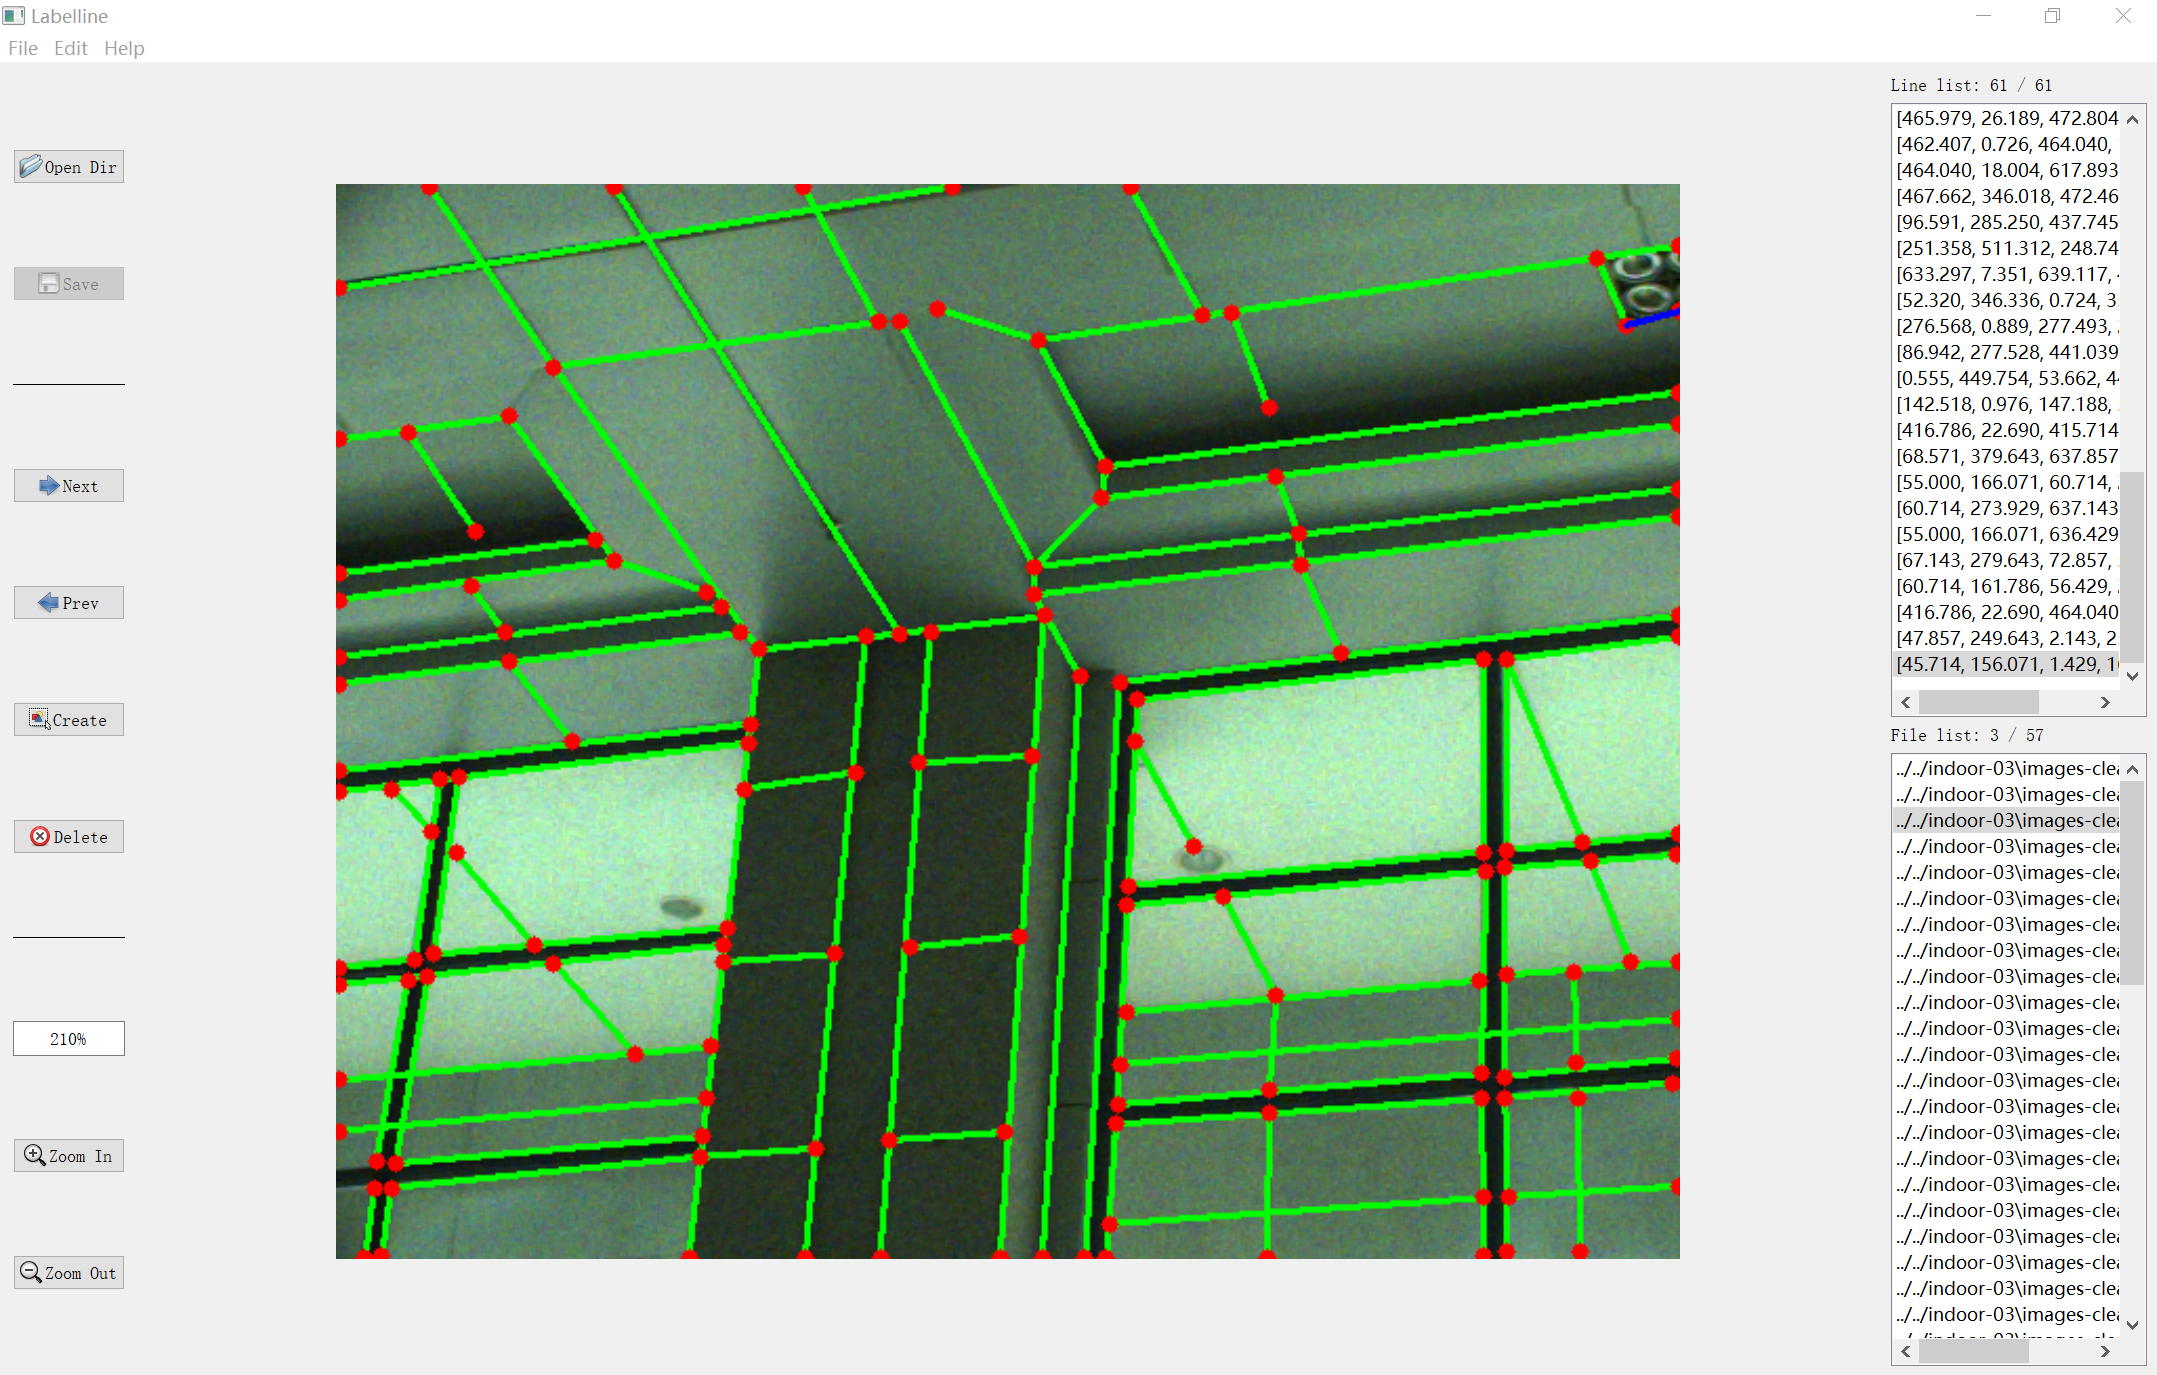
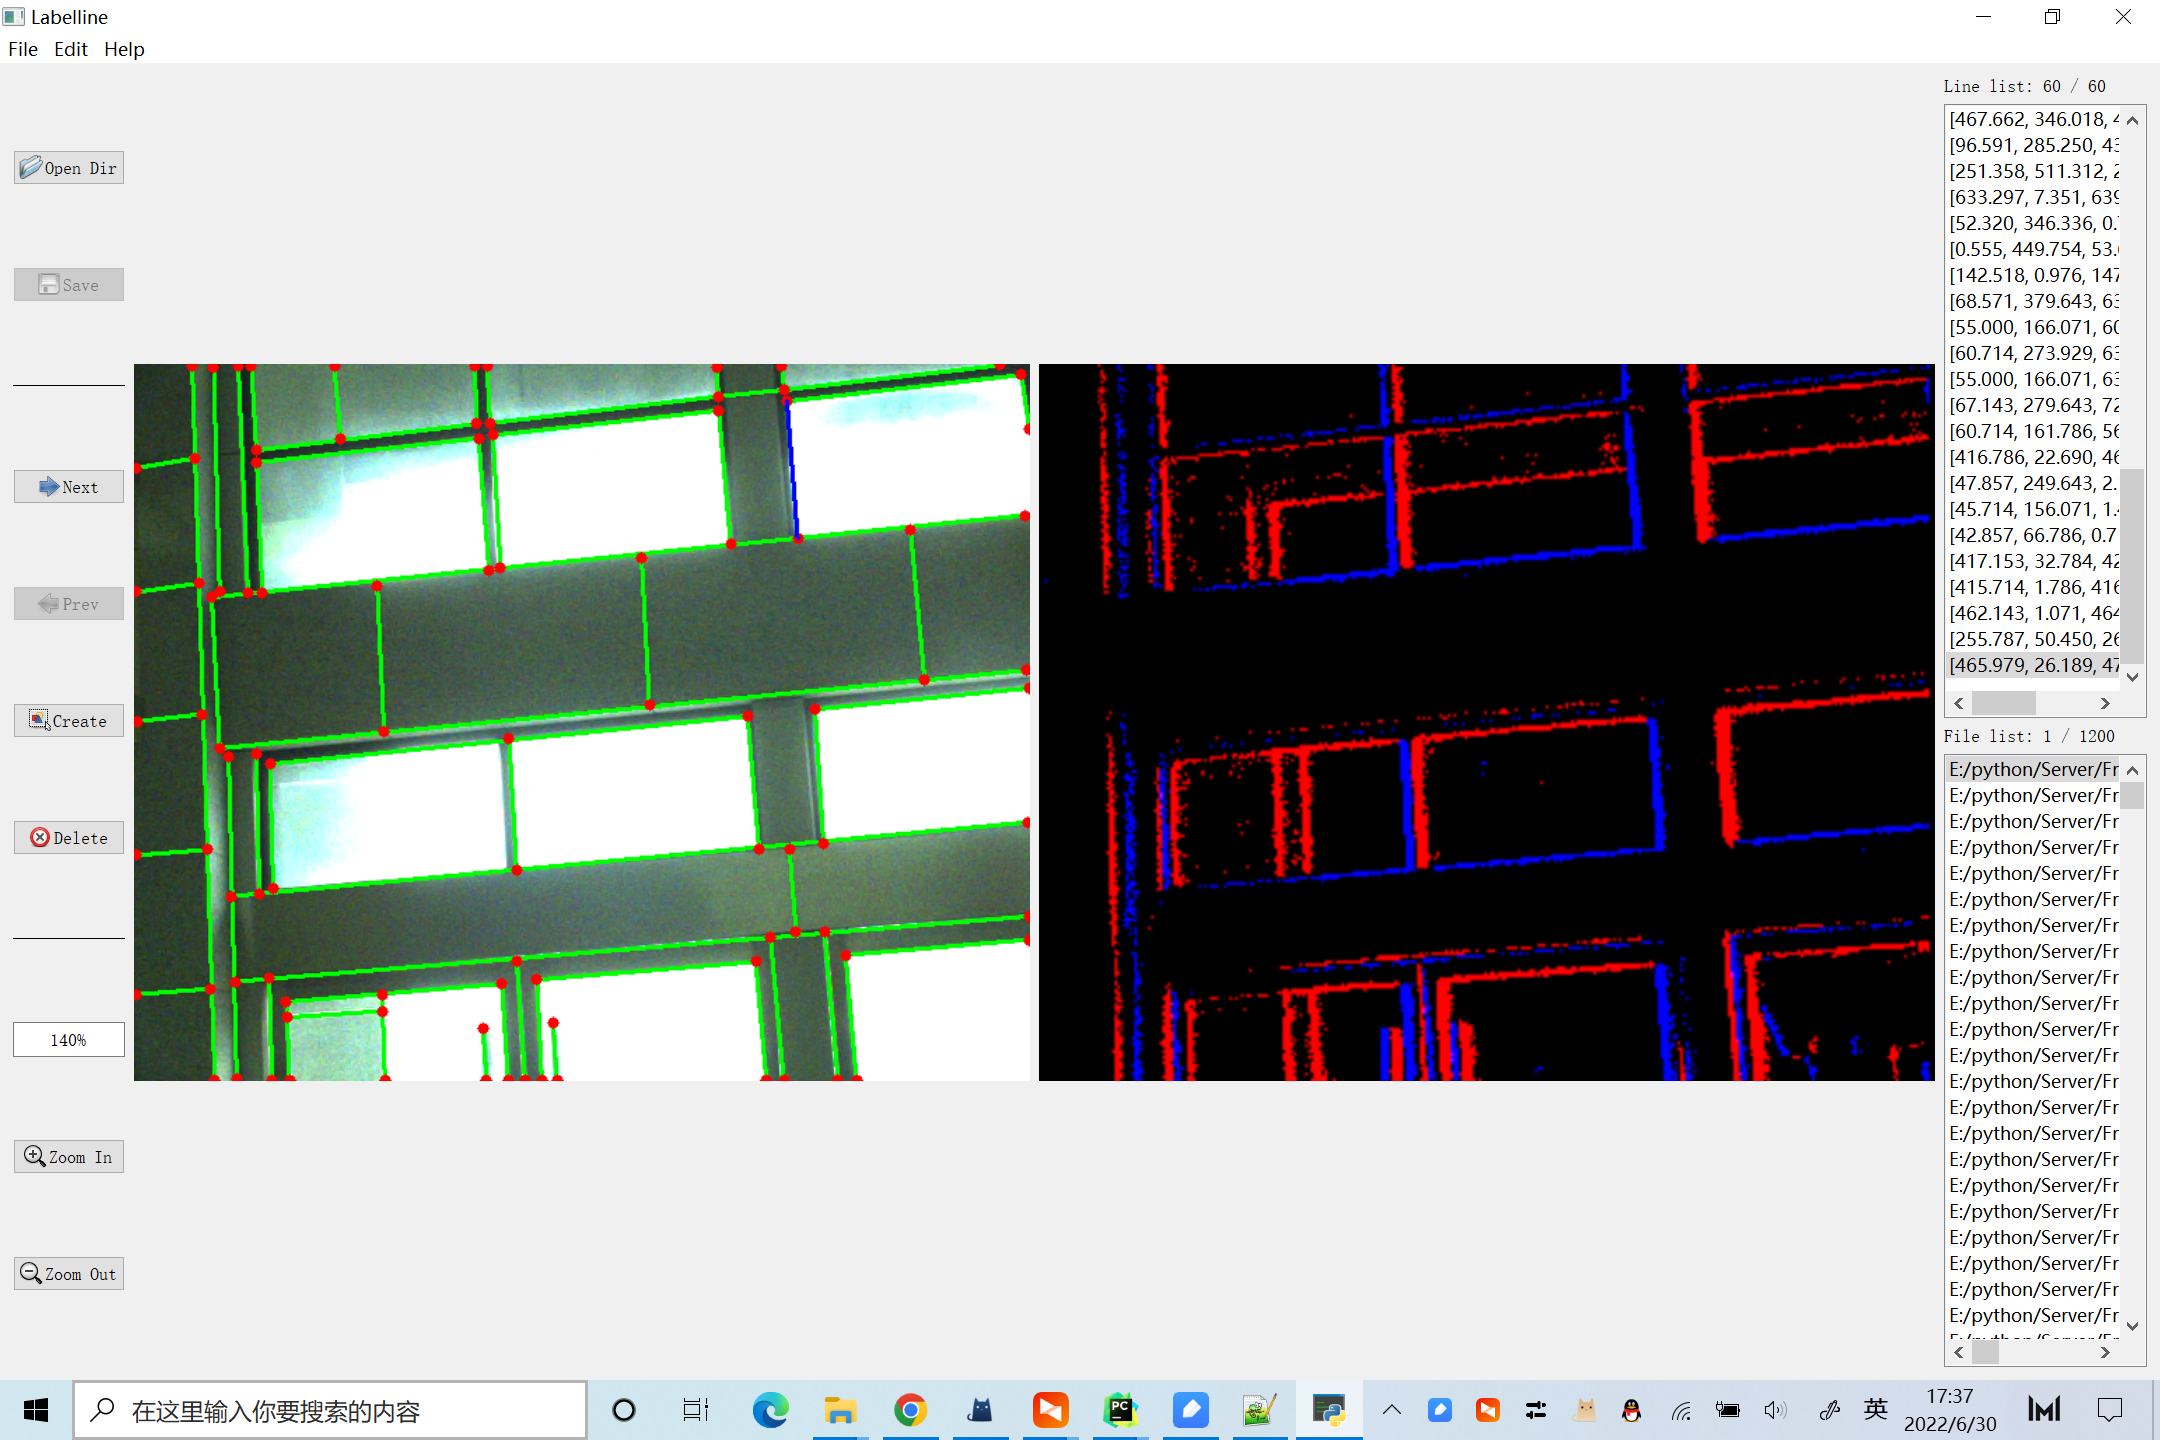
Add Usage.md

diff --git a/Labelline.py b/Labelline.py
@@ -25,6 +25,7 @@ class MainWindow(QMainWindow):
         self.file_index = 0
         self.num_file = 0
         self.image = None
+        self.auxiliary_image = None
         self.lines = np.zeros((0, 2, 2), np.float32)
         self.line_index = len(self.lines) - 1
         self.label_endpoint = None
@@ -32,6 +33,7 @@ class MainWindow(QMainWindow):
 
         self.save_flag = True
         self.transform_flag = False
+        self.move_flag = 0
         self.label_flag = False
 
         self.camera = cam.Pinhole()
@@ -65,6 +67,8 @@ class MainWindow(QMainWindow):
         self.menu_Delete = self.menu_Edit.addAction(QIcon('icon/delete.png'), 'Delete')
         self.menu_Edit.addSeparator()
         self.menu_Transform = self.menu_Edit.addAction(QIcon('icon/transform.png'), 'Transform')
+        self.menu_Edit.addSeparator()
+        self.menu_Exchange = self.menu_Edit.addAction(QIcon('icon/exchange.png'), 'Exchange')
         self.menu_Tutorial = self.menu_Help.addAction(QIcon('icon/tutorial.png'), 'Tutorial')
 
         self.button_OpenDir = QPushButton(text='Open Dir', icon=QIcon('icon/open.png'))
@@ -80,7 +84,8 @@ class MainWindow(QMainWindow):
         self.text_zoom.setFixedSize(self.button_OpenDir.sizeHint())
         self.buttonLayout = QVBoxLayout()
         self.label_Image = QLabel()
-        self.imageLayout = QVBoxLayout()
+        self.label_AuxiliaryImage = QLabel()
+        self.imageLayout = QHBoxLayout()
 
         self.text_Line = QLabel('Line list')
         self.text_File = QLabel('File list')
@@ -108,6 +113,7 @@ class MainWindow(QMainWindow):
         self.buttonLayout.addWidget(self.button_ZoomIn)
         self.buttonLayout.addWidget(self.button_ZoomOut)
         self.imageLayout.addWidget(self.label_Image, Qt.AlignCenter)
+        self.imageLayout.addWidget(self.label_AuxiliaryImage, Qt.AlignCenter)
         self.listLayout.addWidget(self.text_Line)
         self.listLayout.addWidget(self.list_Line)
         self.listLayout.addWidget(self.text_File)
@@ -140,6 +146,7 @@ class MainWindow(QMainWindow):
         self.menu_Create.triggered.connect(self.Create_Callback)
         self.menu_Delete.triggered.connect(self.Delete_Callback)
         self.menu_Transform.triggered.connect(self.Transform_Callback)
+        self.menu_Exchange.triggered.connect(self.Exchange_Callback)
         self.menu_Tutorial.triggered.connect(self.Tutorial_Callback)
 
         self.menu_OpenDir.setShortcut(cfg.menu_OpenDir_shortcut)
@@ -149,6 +156,7 @@ class MainWindow(QMainWindow):
         self.menu_Create.setShortcut(cfg.menu_Create_shortcut)
         self.menu_Delete.setShortcut(cfg.menu_Delete_shortcut)
         self.menu_Transform.setShortcut(cfg.menu_Transform_shortcut)
+        self.menu_Exchange.setShortcut(cfg.menu_Exchange_shortcut)
         self.menu_Tutorial.setShortcut(cfg.menu_Tutorial_shortcut)
 
         self.list_Line.clicked.connect(self.ListLine_Callback)
@@ -184,11 +192,84 @@ class MainWindow(QMainWindow):
         self.menu_Create.setEnabled(False)
         self.menu_Delete.setEnabled(False)
         self.menu_Transform.setEnabled(False)
+        self.menu_Exchange.setEnabled(False)
 
         self.label_Image.setEnabled(False)
 
-    def image_update(self):
+    def data_update(self):
+        self.label_flag = False
+        self.label_endpoint = None
+        self.capture_endpoint = None
+
+        image_file = self.file_list[self.file_index]
+        filename = os.path.basename(image_file)
+        filename = os.path.splitext(filename)[0] + '.mat'
+        line_file = os.path.join(self.data_path, self.label_folder, filename)
+
+        image = cv2.imread(image_file)
+        if image is None:
+            logging.error('Image must not be None')
+            exit()
+        width, height = image.shape[1] // 2, image.shape[0]
+        self.image = image[:, :width]
+        self.auxiliary_image = image[:, width:]
+
+        self.lines = np.zeros((0, 2, 2), np.float32)
+        if os.path.isfile(line_file):
+            lines = sio.loadmat(line_file)['lines']
+            if len(lines):
+                # 去除长度为0的线段
+                mask = np.linalg.norm(lines[:, 1] - lines[:, 0], axis=-1) > 0
+                lines = lines[mask]
+
+                # 合并相同的端点
+                juncs = np.unique(np.vstack((lines[:, 1], lines[:, 0])), axis=0)
+                jids = {}
+                for id, junc in enumerate(juncs):
+                    jids[tuple(junc)] = id
+                dists = np.linalg.norm(juncs[:, None] - juncs[None], axis=-1)
+                indices = np.argwhere(dists < self.point_select_thresh)
+                mask = indices[:, 0] < indices[:, 1]
+                indices = indices[mask]
+                if len(indices):
+                    print(os.path.basename(line_file))
+                    for i, j in indices:
+                        junc_i = juncs[i]
+                        junc_j = juncs[j]
+                        jids[tuple(junc_j)] = jids[tuple(junc_i)]
+                for i in range(len(lines)):
+                    id1 = jids[tuple(lines[i, 0])]
+                    id2 = jids[tuple(lines[i, 1])]
+                    lines[i, 0] = juncs[id1]
+                    lines[i, 1] = juncs[id2]
+
+                # 限制线段端点范围
+                lines[:, :, 0] = np.clip(lines[:, :, 0], 0, width - 1e-4)
+                lines[:, :, 1] = np.clip(lines[:, :, 1], 0, height - 1e-4)
+
+                self.lines = lines
+                self.Save_Callback()
+            else:
+                os.remove(line_file)
+        self.line_index = len(self.lines) - 1
+
+    def transform(self):
         image = self.image.copy()
+        auxiliary_image = self.auxiliary_image.copy()
+        if self.transform_flag:
+            for i in range(3):
+                image[:, :, i] = cv2.equalizeHist(image[:, :, i])
+
+        if self.move_flag == 0:
+            return image, auxiliary_image
+        elif self.move_flag == 1:
+            return auxiliary_image, image
+        else:
+            return image, image.copy()
+
+    def image_update(self):
+        image, auxiliary_image = self.transform()
+
         if len(self.lines) > 0:
             lines = self.lines
             self.camera.insert_line(image, lines, color=[0, 255, 0], thickness=self.line_width)
@@ -212,39 +293,16 @@ class MainWindow(QMainWindow):
 
         new_size = (int(round(image.shape[1] * self.scale)), int(round(image.shape[0] * self.scale)))
         image = cv2.resize(image, new_size, cv2.INTER_CUBIC)
-        image = QImage(image.data, image.shape[1], image.shape[0], image.shape[1] * 3, QImage.Format.Format_BGR888)
+        image = QImage(image.data, image.shape[1], image.shape[0], image.shape[1] * 3,
+                       QImage.Format.Format_BGR888)
         pixmap = QPixmap(image).scaled(new_size[0], new_size[1])
         self.label_Image.setPixmap(pixmap)
 
-    def transform(self):
-        # Todo: add your code
-        if self.transform_flag:
-            for i in range(3):
-                self.image[:, :, i] = cv2.equalizeHist(self.image[:, :, i])
-
-    def data_update(self):
-        self.label_flag = False
-        self.label_endpoint = None
-        self.capture_endpoint = None
-
-        image_file = self.file_list[self.file_index]
-        filename = os.path.basename(image_file)
-        filename = os.path.splitext(filename)[0] + '.mat'
-        line_file = os.path.join(self.data_path, self.label_folder, filename)
-
-        self.image = cv2.imread(image_file)
-        if self.image is None:
-            logging.error('Image must not be None')
-            exit()
-
-        self.lines = np.zeros((0, 2, 2), np.float32)
-        if os.path.isfile(line_file):
-            lines = sio.loadmat(line_file)['lines']
-            if len(lines):
-                self.lines = lines
-        self.line_index = len(self.lines) - 1
-
-        self.transform()
+        auxiliary_image = cv2.resize(auxiliary_image, new_size, cv2.INTER_CUBIC)
+        auxiliary_image = QImage(auxiliary_image.data, auxiliary_image.shape[1], auxiliary_image.shape[0],
+                                 auxiliary_image.shape[1] * 3, QImage.Format.Format_BGR888)
+        pixmap = QPixmap(auxiliary_image).scaled(new_size[0], new_size[1])
+        self.label_AuxiliaryImage.setPixmap(pixmap)
 
     def widget_update(self):
         # Update Widget
@@ -265,8 +323,8 @@ class MainWindow(QMainWindow):
         self.menu_Next.setEnabled(self.save_flag and self.file_index < self.num_file - 1)
         self.menu_Prev.setEnabled(self.save_flag and self.file_index > 0)
         self.menu_Create.setEnabled(True)
-        self.menu_Delete.setEnabled(self.line_index >= 0)
         self.menu_Transform.setEnabled(True)
+        self.menu_Exchange.setEnabled(True)
 
         self.label_Image.setEnabled(True)
 
@@ -280,6 +338,7 @@ class MainWindow(QMainWindow):
         self.list_Line.setEnabled(len(self.lines) > 0)
 
         self.button_Delete.setEnabled(len(self.lines) > 0)
+        self.menu_Delete.setEnabled(len(self.lines) > 0)
 
     def zoom_update(self):
         self.text_zoom.setText(f'{int(round(self.scale * 100))}%')
@@ -288,7 +347,6 @@ class MainWindow(QMainWindow):
         self.button_ZoomOut.setEnabled(self.scale > self.scale_limit[0])
 
     def OpenDir_Callback(self, data_path=None):
-        self.Save_Callback()
         if not data_path:
             data_path = QFileDialog.getExistingDirectory()
         image_path = os.path.join(data_path, self.image_folder)
@@ -322,14 +380,15 @@ class MainWindow(QMainWindow):
         self.image_update()
 
     def Save_Callback(self):
-        if self.save_flag:
-            return
         self.save_flag = True
         image_file = self.file_list[self.file_index]
         filename = os.path.basename(image_file)
         filename = os.path.splitext(filename)[0] + '.mat'
         line_file = os.path.join(self.data_path, self.label_folder, filename)
-        sio.savemat(line_file, {'lines': self.lines})
+        if len(self.lines):
+            sio.savemat(line_file, {'lines': self.lines})
+        elif os.path.isfile(line_file):
+            os.remove(line_file)
 
         self.widget_update()
 
@@ -337,18 +396,21 @@ class MainWindow(QMainWindow):
         self.file_index += 1
         self.data_update()
         self.widget_update()
+        self.line_update()
         self.image_update()
 
     def Prev_Callback(self):
         self.file_index -= 1
         self.data_update()
         self.widget_update()
+        self.line_update()
         self.image_update()
 
     def ListFile_Callback(self):
         self.file_index = self.list_File.currentRow()
         self.data_update()
         self.widget_update()
+        self.line_update()
         self.image_update()
 
     def ListLine_Callback(self):
@@ -374,10 +436,11 @@ class MainWindow(QMainWindow):
         self.image_update()
 
     def Transform_Callback(self):
-        self.Save_Callback()
-
         self.transform_flag = not self.transform_flag
-        self.data_update()
+        self.image_update()
+
+    def Exchange_Callback(self):
+        self.move_flag = (self.move_flag + 1) % 3
         self.image_update()
 
     def ZoomIn_Callback(self):
@@ -446,8 +509,12 @@ class MainWindow(QMainWindow):
                         self.capture_endpoint = None
 
                     line = np.stack((self.label_endpoint, pt))
-                    self.lines = np.concatenate((self.lines, line[None]))
-                    self.line_index = len(self.lines) - 1
+                    length = np.linalg.norm(line[1] - line[0], axis=-1)
+                    if length > 0:
+                        self.lines = np.concatenate((self.lines, line[None]))
+                        self.lines[:, :, 0] = np.clip(self.lines[:, :, 0], 0, width - 1e-4)
+                        self.lines[:, :, 1] = np.clip(self.lines[:, :, 1], 0, height - 1e-4)
+                        self.line_index = len(self.lines) - 1
 
                     # Update UI
                     self.save_flag = False
@@ -502,9 +569,9 @@ class MainWindow(QMainWindow):
     def Tutorial_Callback(self):
         QMessageBox.information(self,
                         'Tutorial',
-                        'Version: 2.0\n'
+                        'Version: 1.0\n'
                         'Author: lh9171338\n'
-                        'Date: 2022-02-20\n'
+                        'Date: 2022-06-30\n'
                         'Shortcut (default):\n'
                         '\tCtrl + O: Select an image folder\n'
                         '\tCtrl + S: Save the annotations\n'
@@ -512,7 +579,8 @@ class MainWindow(QMainWindow):
                         '\tCtrl + B: Go to the previous image\n'
                         '\tCtrl + C: Create a new annotation\n'
                         '\tCtrl + D: Delete the selected annotation\n'
-                        '\tCtrl + W: Transform (The default operation is histogram equalization)\n'
+                        '\tCtrl + W: Transform\n'
+                        '\tCtrl + Q: Exchange\n'
                         '\tCtrl + U: View the tutorial\n'
                         'Mouse buttons (clicked in the image area): \n'
                         '\tLeft button: Create an endpoint of a new annotation\n'

diff --git a/Usage.md b/Usage.md
@@ -2,9 +2,9 @@
 
 ### 软件信息
 
-* 版本：2.0
+* 版本：1.0
 * 作者：lh9171338
-* 日期：2022-02-20
+* 日期：2022-06-30
 
 ### 快捷键（默认）
 
@@ -14,7 +14,8 @@
 * Ctrl + B：返回上一张图像
 * Ctrl + C：进入线段标注状态
 * Ctrl + D：删除选中的线段标注
-* Ctrl + W：图像变换（默认操作为直方图均衡化）
+* Ctrl + W：图像变换，对普光图像进行直方图均衡化操作，提升图像对比度
+* Ctrl + Q：互换普光图像和事件帧位置
 * Ctrl + U：查看用户手册
 
 **注**：编辑`default.yaml`文件可以修改快捷键
@@ -45,10 +46,23 @@
 
 **注**：`<image folder>`和`<label folder>`路径在`default.yaml`文件中配置，二者可以相同
 
+标注图像由图像图像和事件帧沿水平方向拼接而成，示例如下：
+<p align="center">
+    <img src="000001.png"/>
+</p> 
+
 ### 程序运行
 
 ```shell
 python Labelline.py
 ```
-**注**：用户可以根据需求修改图像变换的功能
 
+### 标注准则
+
+1. 保持线段具有公共端点的性质：在线段标注状态下，当鼠标移动到离某条已标注线段端点很近时，界面有==捕获==状态显示，此时点击鼠标左键进行标点，可以确保当前标注的端点等于该已存在的端点
+2. 保持线段水平/竖直的性质：当标注的线段非常接近水平/竖直时，程序会自动将其将其转为水平/竖直
+3. 尽量标注长线，如果它们在3D空间并不是一条线，则分段标注
+4. 太短的线可以不标
+5. 非常接近的平行线只标注一条
+6. 2条线端点不重合，但非常接近，不好标注时，可以舍弃其中一条线
+7. 唯一宗旨是确保标注正确、整洁

diff --git a/README.md b/README.md
@@ -1,6 +1,6 @@
 [<img height="23" src="https://github.com/lh9171338/Outline/blob/master/icon.jpg"/>](https://github.com/lh9171338/Outline) Labelline
 ===
-This repository contains a line segment annotation tool, which is implemented with PyQt5.
+This repository contains a line segment annotation tool for registered frame and event data, which is implemented with PyQt5.
 
 ## UI
 
